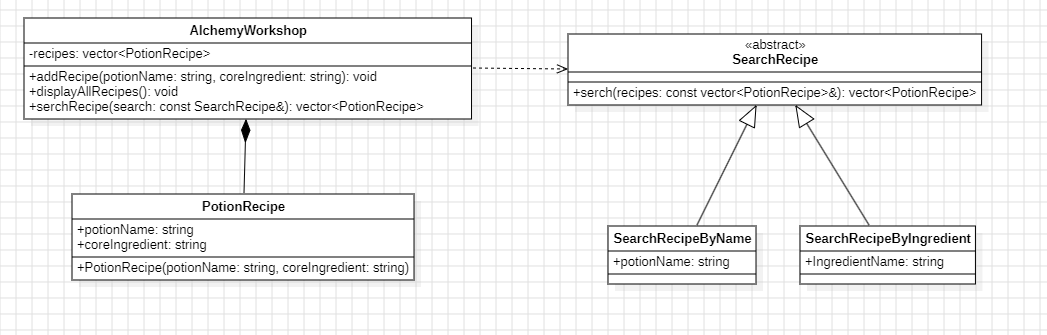
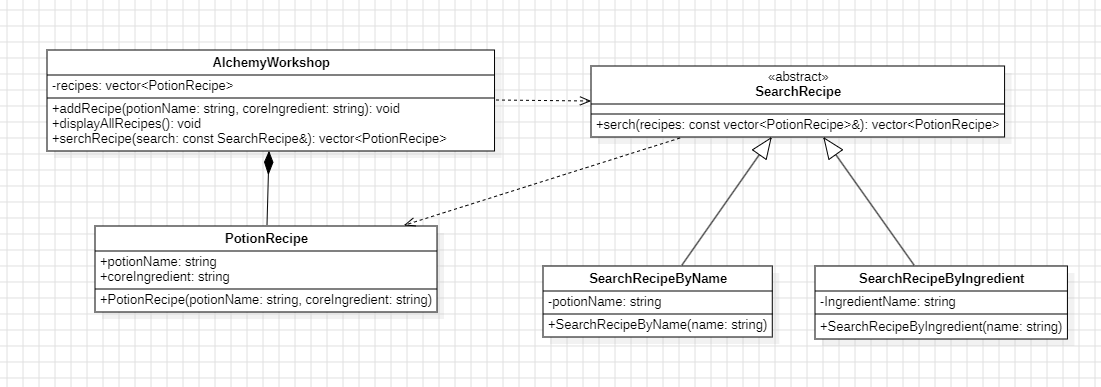
도전 기능 완성(물약이름으로 레시피검색 물약재료로 레시피검색 추가

diff --git a/Problem4/SearchRecipeByIngredient.h b/Problem4/SearchRecipeByIngredient.h
@@ -1,11 +1,10 @@
 #pragma once
 #include"SearchRecipe.h"
-using namespace std;
 class SearchRecipeByIngredient:public SearchRecipe
 {
 public:
 	SearchRecipeByIngredient(string name);
-	vector<PotionRecipe> search(const vector<PotionRecipe>& recipes);
+	vector<PotionRecipe> search(const vector<PotionRecipe>& recipes) const;
 private:
 	string ingredientName;
 };
